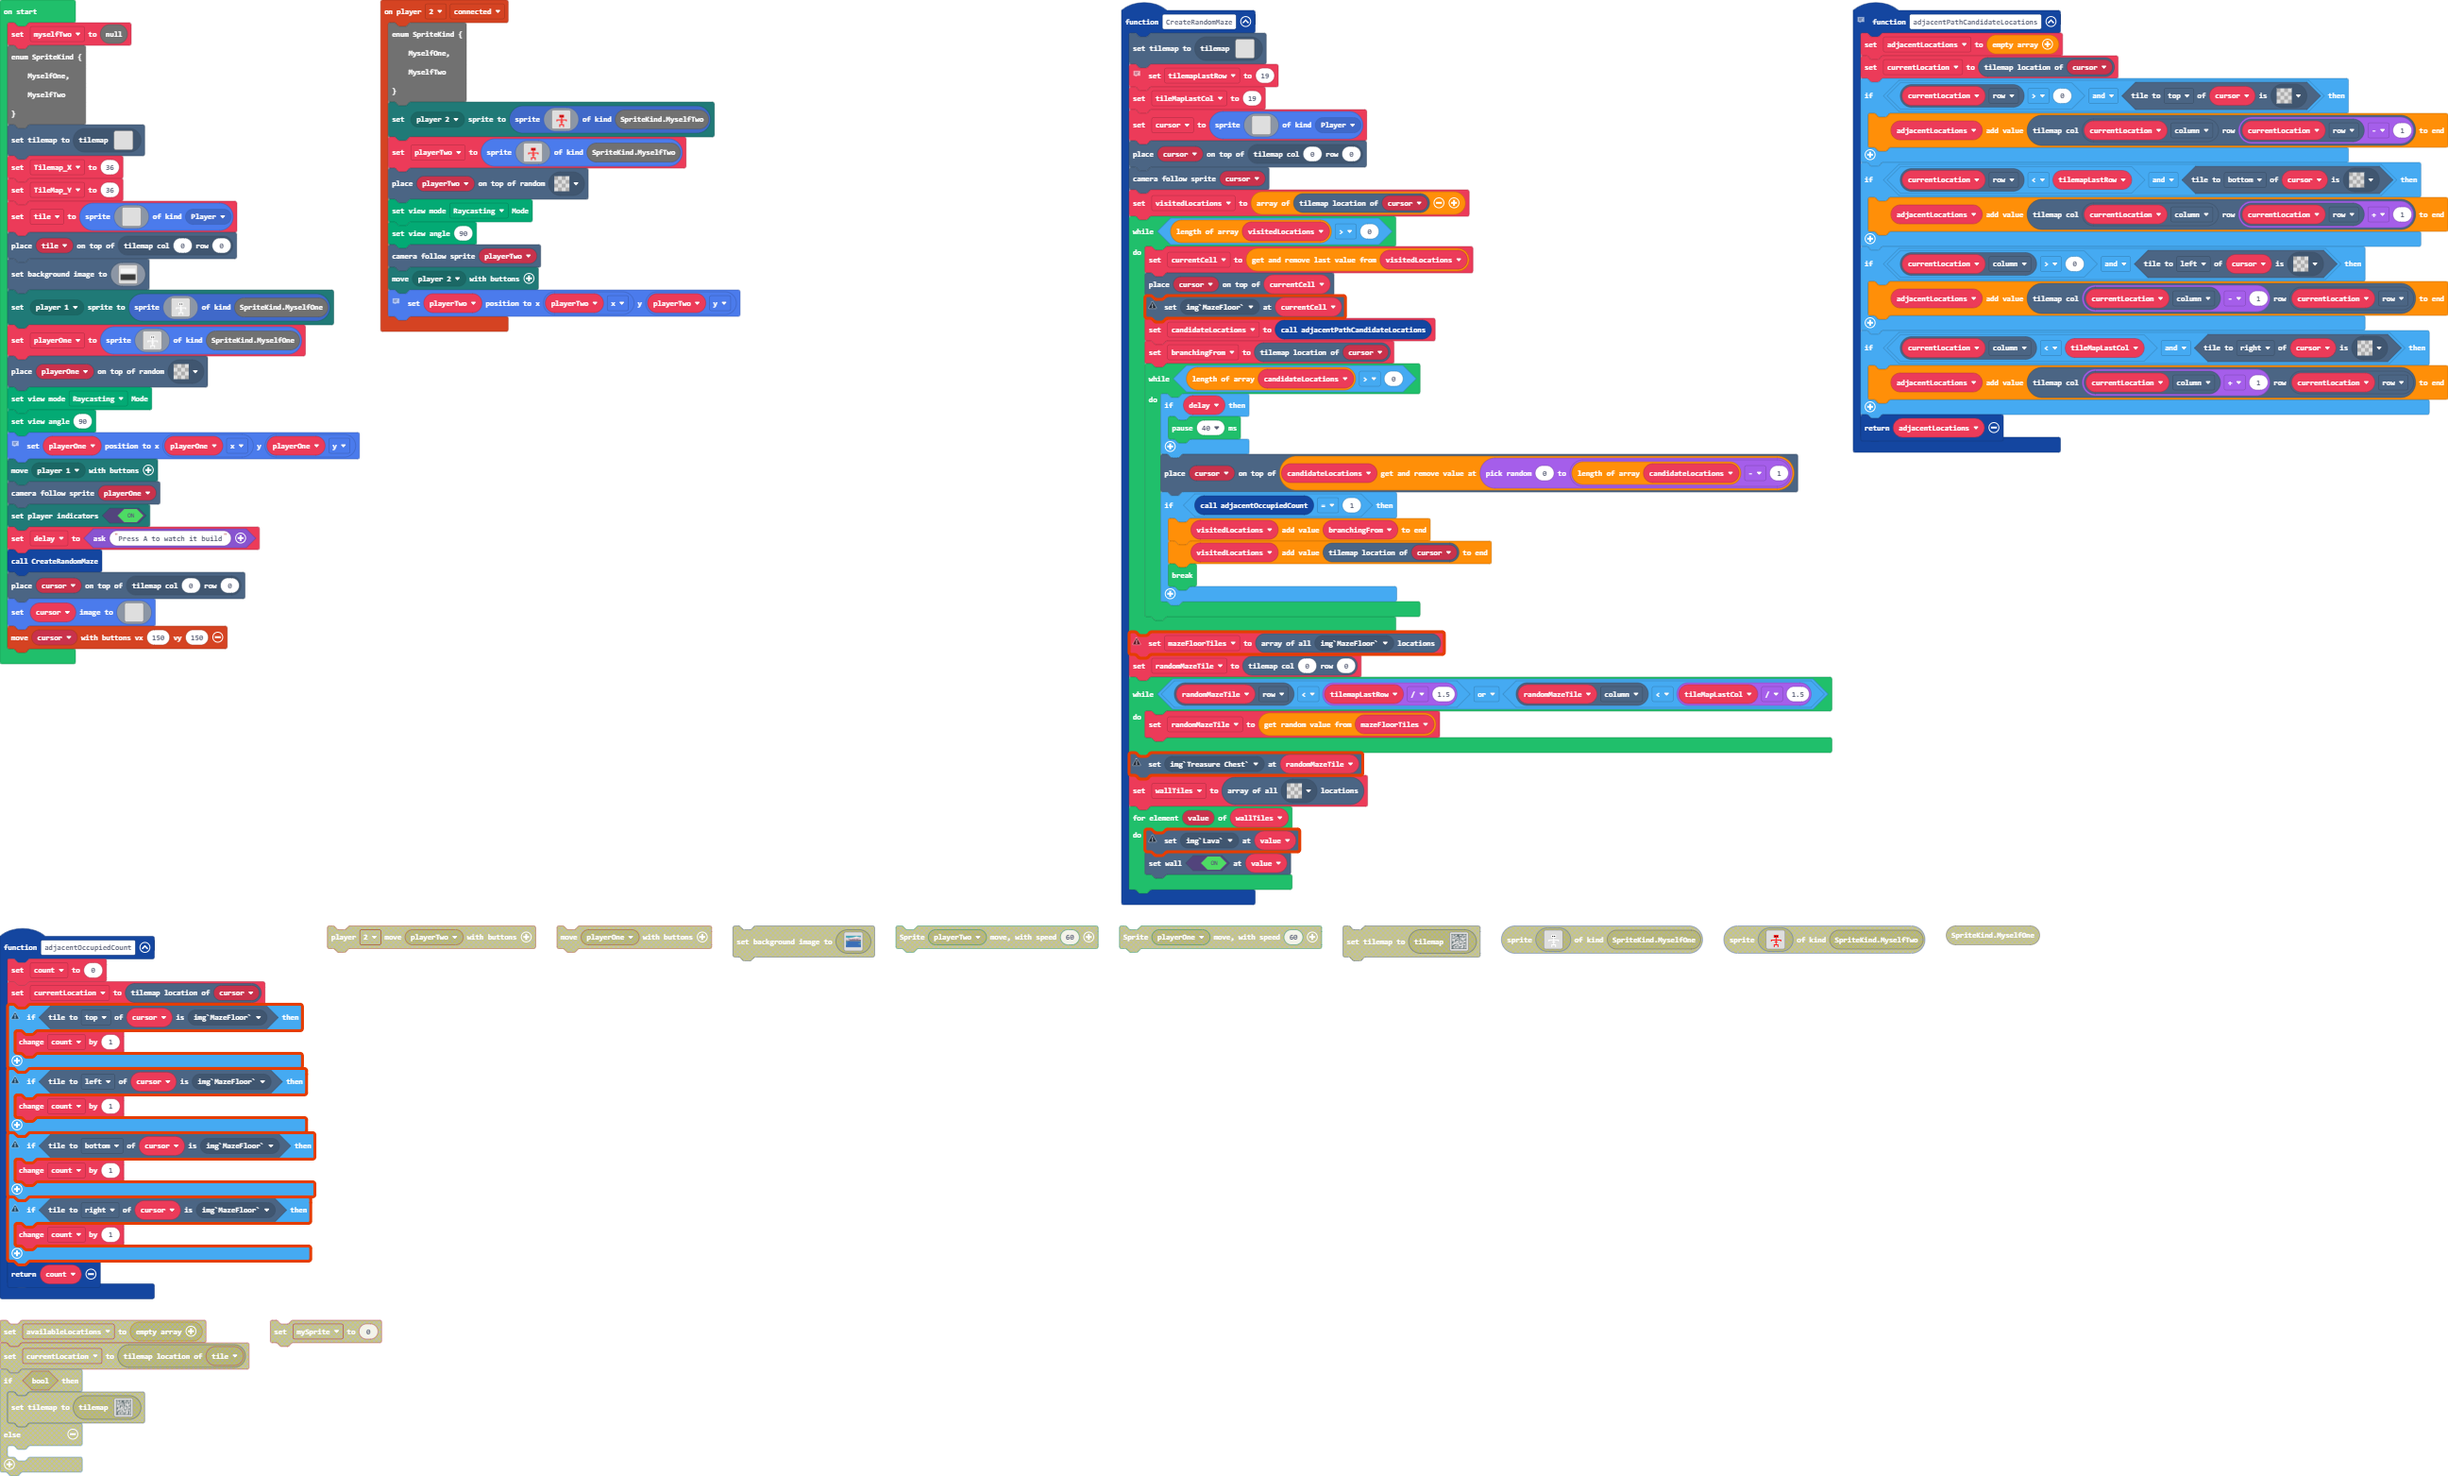
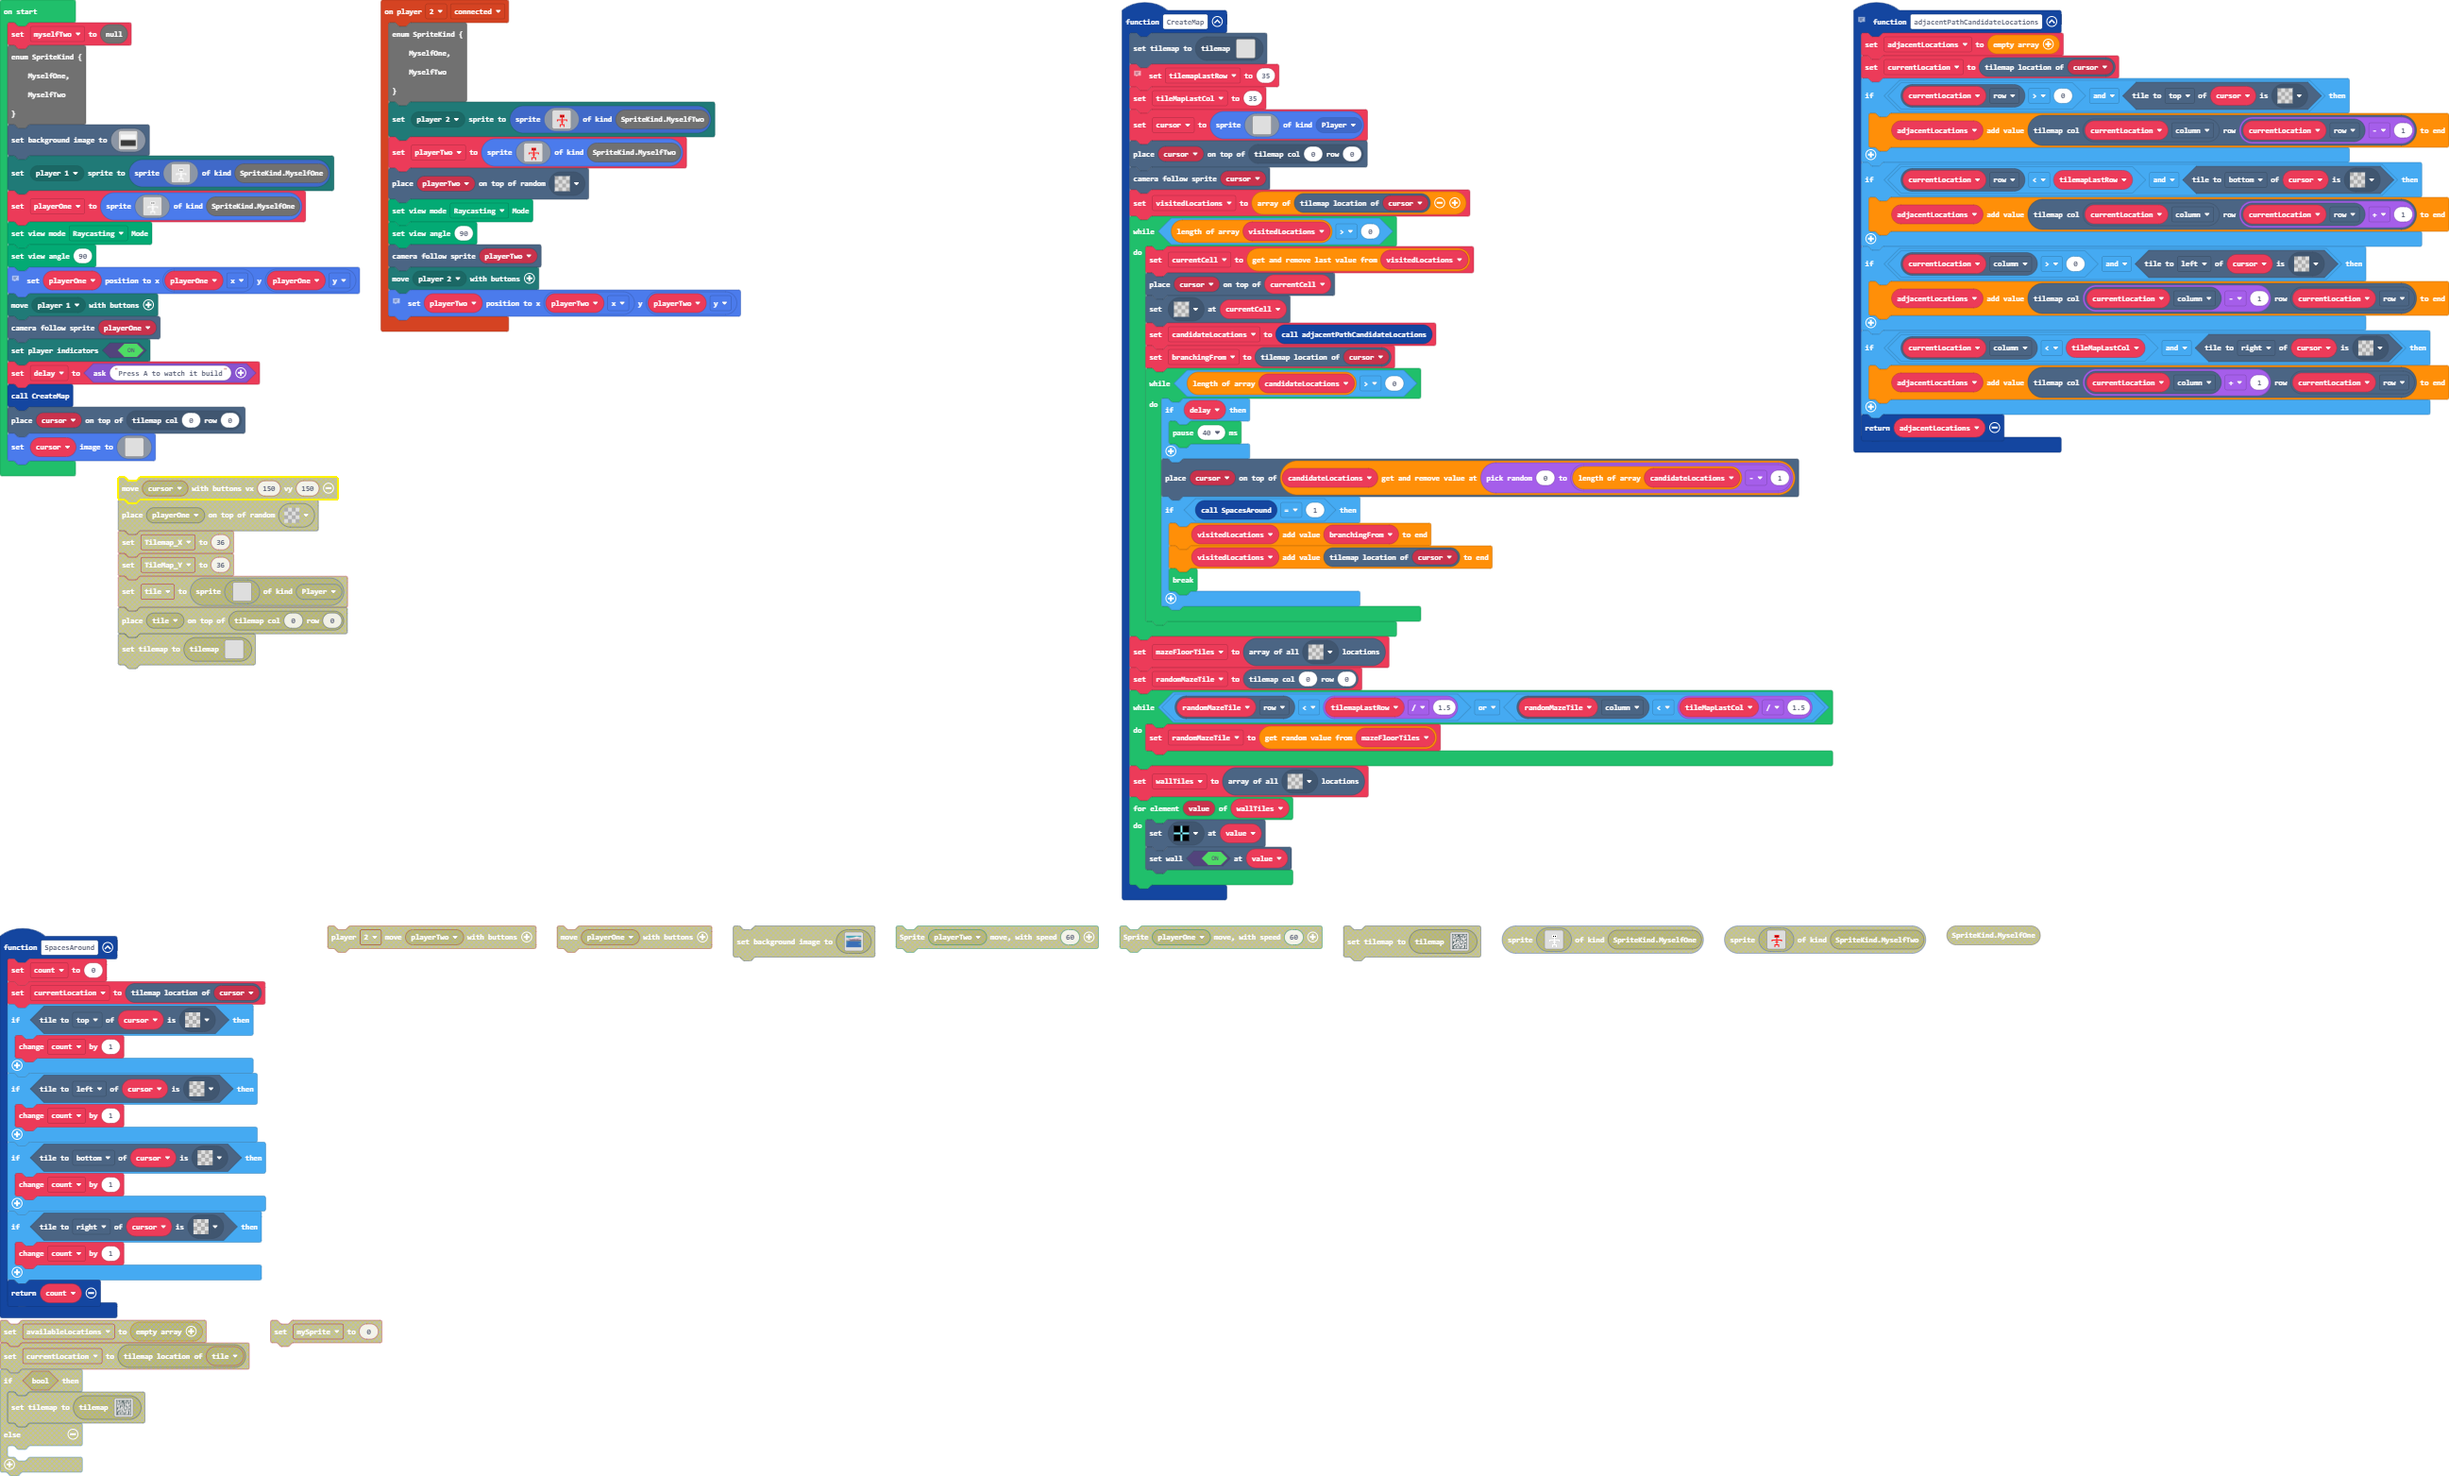
Update main.blocks, main.ts, tilemap.g.jres, tilemap.g.ts

diff --git a/main.ts b/main.ts
@@ -1,8 +1,8 @@
-function CreateRandomMaze () {
+function CreateMap () {
     tiles.setCurrentTilemap(tilemap`level12`)
     // Hard coded tilemap size before realizing there's a tilemap extension that lets you see the tilemap size.
-    tilemapLastRow = 19
-    tileMapLastCol = 19
+    tilemapLastRow = 35
+    tileMapLastCol = 35
     cursor = sprites.create(img`
         . . . . . . . . . . . . . . . . 
         . . . . . . . . . . . . . . . . 
@@ -27,7 +27,7 @@ function CreateRandomMaze () {
     while (visitedLocations.length > 0) {
         currentCell = visitedLocations.pop()
         tiles.placeOnTile(cursor, currentCell)
-        tiles.setTileAt(currentCell, img`MazeFloor`)
+        tiles.setTileAt(currentCell, assets.tile`transparency16`)
         candidateLocations = adjacentPathCandidateLocations()
         branchingFrom = cursor.tilemapLocation()
         while (candidateLocations.length > 0) {
@@ -35,24 +35,40 @@ function CreateRandomMaze () {
                 pause(40)
             }
             tiles.placeOnTile(cursor, candidateLocations.removeAt(randint(0, candidateLocations.length - 1)))
-            if (adjacentOccupiedCount() == 1) {
+            if (SpacesAround() == 1) {
                 visitedLocations.push(branchingFrom)
                 visitedLocations.push(cursor.tilemapLocation())
                 break;
             }
         }
     }
-    mazeFloorTiles = tiles.getTilesByType(img`MazeFloor`)
+    mazeFloorTiles = tiles.getTilesByType(assets.tile`transparency16`)
     randomMazeTile = tiles.getTileLocation(0, 0)
     while (randomMazeTile.row < tilemapLastRow / 1.5 || randomMazeTile.column < tileMapLastCol / 1.5) {
         randomMazeTile = mazeFloorTiles._pickRandom()
     }
-    tiles.setTileAt(randomMazeTile, img`Treasure Chest`)
     wallTiles = tiles.getTilesByType(assets.tile`transparency16`)
     for (let value of wallTiles) {
-        tiles.setTileAt(value, img`Lava`)
+        tiles.setTileAt(value, assets.tile`myTile`)
         tiles.setWallAt(value, true)
     }
+}
+function SpacesAround () {
+    count = 0
+    currentLocation = cursor.tilemapLocation()
+    if (cursor.tileKindAt(TileDirection.Top, assets.tile`transparency16`)) {
+        count += 1
+    }
+    if (cursor.tileKindAt(TileDirection.Left, assets.tile`transparency16`)) {
+        count += 1
+    }
+    if (cursor.tileKindAt(TileDirection.Bottom, assets.tile`transparency16`)) {
+        count += 1
+    }
+    if (cursor.tileKindAt(TileDirection.Right, assets.tile`transparency16`)) {
+        count += 1
+    }
+    return count
 }
 controller.player2.onEvent(ControllerEvent.Connected, function () {
     enum SpriteKind {
@@ -121,27 +137,10 @@ function adjacentPathCandidateLocations () {
     }
     return adjacentLocations
 }
-function adjacentOccupiedCount () {
-    count = 0
-    currentLocation = cursor.tilemapLocation()
-    if (cursor.tileKindAt(TileDirection.Top, img`MazeFloor`)) {
-        count += 1
-    }
-    if (cursor.tileKindAt(TileDirection.Left, img`MazeFloor`)) {
-        count += 1
-    }
-    if (cursor.tileKindAt(TileDirection.Bottom, img`MazeFloor`)) {
-        count += 1
-    }
-    if (cursor.tileKindAt(TileDirection.Right, img`MazeFloor`)) {
-        count += 1
-    }
-    return count
-}
-let count = 0
-let currentLocation: tiles.Location = null
 let adjacentLocations: tiles.Location[] = []
 let playerTwo: Sprite = null
+let currentLocation: tiles.Location = null
+let count = 0
 let wallTiles: tiles.Location[] = []
 let randomMazeTile: tiles.Location = null
 let mazeFloorTiles: tiles.Location[] = []
@@ -158,28 +157,6 @@ enum SpriteKind {
     MyselfOne,
     MyselfTwo
 }
-tiles.setCurrentTilemap(tilemap`level8`)
-let Tilemap_X = 36
-let TileMap_Y = 36
-let tile = sprites.create(img`
-    . . . . . . . . . . . . . . . . 
-    . . . . . . . . . . . . . . . . 
-    . . . . . . . . . . . . . . . . 
-    . . . . . . . . . . . . . . . . 
-    . . . . . . . . . . . . . . . . 
-    . . . . . . . . . . . . . . . . 
-    . . . . . . . . . . . . . . . . 
-    . . . . . . . . . . . . . . . . 
-    . . . . . . . . . . . . . . . . 
-    . . . . . . . . . . . . . . . . 
-    . . . . . . . . . . . . . . . . 
-    . . . . . . . . . . . . . . . . 
-    . . . . . . . . . . . . . . . . 
-    . . . . . . . . . . . . . . . . 
-    . . . . . . . . . . . . . . . . 
-    . . . . . . . . . . . . . . . . 
-    `, SpriteKind.Player)
-tiles.placeOnTile(tile, tiles.getTileLocation(0, 0))
 scene.setBackgroundImage(img`
     1111111111111111111111111111111111111111111111111111111111111111111111111111111111111111111111111111111111111111111111111111111111111111111111111111111111111111
     1111111111111111111111111111111111111111111111111111111111111111111111111111111111111111111111111111111111111111111111111111111111111111111111111111111111111111
@@ -338,7 +315,6 @@ let playerOne = sprites.create(img`
     . . . . . . 1 . . . 1 . . . . . 
     . . . . . . 1 . . . 1 . . . . . 
     `, SpriteKind.MyselfOne)
-tiles.placeOnRandomTile(playerOne, assets.tile`transparency16`)
 Render.setViewMode(ViewMode.raycastingView)
 Render.setViewAngleInDegree(90)
 // Set the initial position of the sprite
@@ -347,7 +323,7 @@ mp.moveWithButtons(mp.playerSelector(mp.PlayerNumber.One))
 scene.cameraFollowSprite(playerOne)
 mp.setPlayerIndicatorsVisible(true)
 delay = game.ask("Press A to watch it build")
-CreateRandomMaze()
+CreateMap()
 tiles.placeOnTile(cursor, tiles.getTileLocation(0, 0))
 cursor.setImage(img`
     . . . . . . . . . . . . . . . . 
@@ -367,4 +343,3 @@ cursor.setImage(img`
     . . . . . . . . . . . . . . . . 
     . . . . . . . . . . . . . . . . 
     `)
-controller.moveSprite(cursor, 150, 150)

diff --git a/tilemap.g.ts b/tilemap.g.ts
@@ -278,6 +278,44 @@ namespace myTiles {
 . . . . . . . . . . . . . . . . 
 . . . . . . . . . . . . . . . . 
 `, [], -Infinity);
+            case "level13":
+            case "level13":return tiles.createTilemap(hex`1000100000000000000000000000000000000000000000000000000000000000000000000000000000000000000000000000000000000000000000000000000000000000000000000000000000000000000000000000000000000000000000000000000000000000000000000000000000000000000000000000000000000000000000000000000000000000000000000000000000000000000000000000000000000000000000000000000000000000000000000000000000000000000000000000000000000000000000000000000000000000000000000000000000000000000000000000000000000000000000000000000000000000000000000000000000000000`, img`
+. . . . . . . . . . . . . . . . 
+. . . . . . . . . . . . . . . . 
+. . . . . . . . . . . . . . . . 
+. . . . . . . . . . . . . . . . 
+. . . . . . . . . . . . . . . . 
+. . . . . . . . . . . . . . . . 
+. . . . . . . . . . . . . . . . 
+. . . . . . . . . . . . . . . . 
+. . . . . . . . . . . . . . . . 
+. . . . . . . . . . . . . . . . 
+. . . . . . . . . . . . . . . . 
+. . . . . . . . . . . . . . . . 
+. . . . . . . . . . . . . . . . 
+. . . . . . . . . . . . . . . . 
+. . . . . . . . . . . . . . . . 
+. . . . . . . . . . . . . . . . 
+`, [myTiles.transparency16], TileScale.Sixteen);
+            case "level14":
+            case "level14":return tiles.createTilemap(hex`1000100000000000000000000000000000000000000000000000000000000000000000000000000000000000000000000000000000000000000000000000000000000000000000000000000000000000000000000000000000000000000000000000000000000000000000000000000000000000000000000000000000000000000000000000000000000000000000000000000000000000000000000000000000000000000000000000000000000000000000000000000000000000000000000000000000000000000000000000000000000000000000000000000000000000000000000000000000000000000000000000000000000000000000000000000000000000`, img`
+. . . . . . . . . . . . . . . . 
+. . . . . . . . . . . . . . . . 
+. . . . . . . . . . . . . . . . 
+. . . . . . . . . . . . . . . . 
+. . . . . . . . . . . . . . . . 
+. . . . . . . . . . . . . . . . 
+. . . . . . . . . . . . . . . . 
+. . . . . . . . . . . . . . . . 
+. . . . . . . . . . . . . . . . 
+. . . . . . . . . . . . . . . . 
+. . . . . . . . . . . . . . . . 
+. . . . . . . . . . . . . . . . 
+. . . . . . . . . . . . . . . . 
+. . . . . . . . . . . . . . . . 
+. . . . . . . . . . . . . . . . 
+. . . . . . . . . . . . . . . . 
+`, [myTiles.transparency16], TileScale.Sixteen);
         }
         return null;
     })
